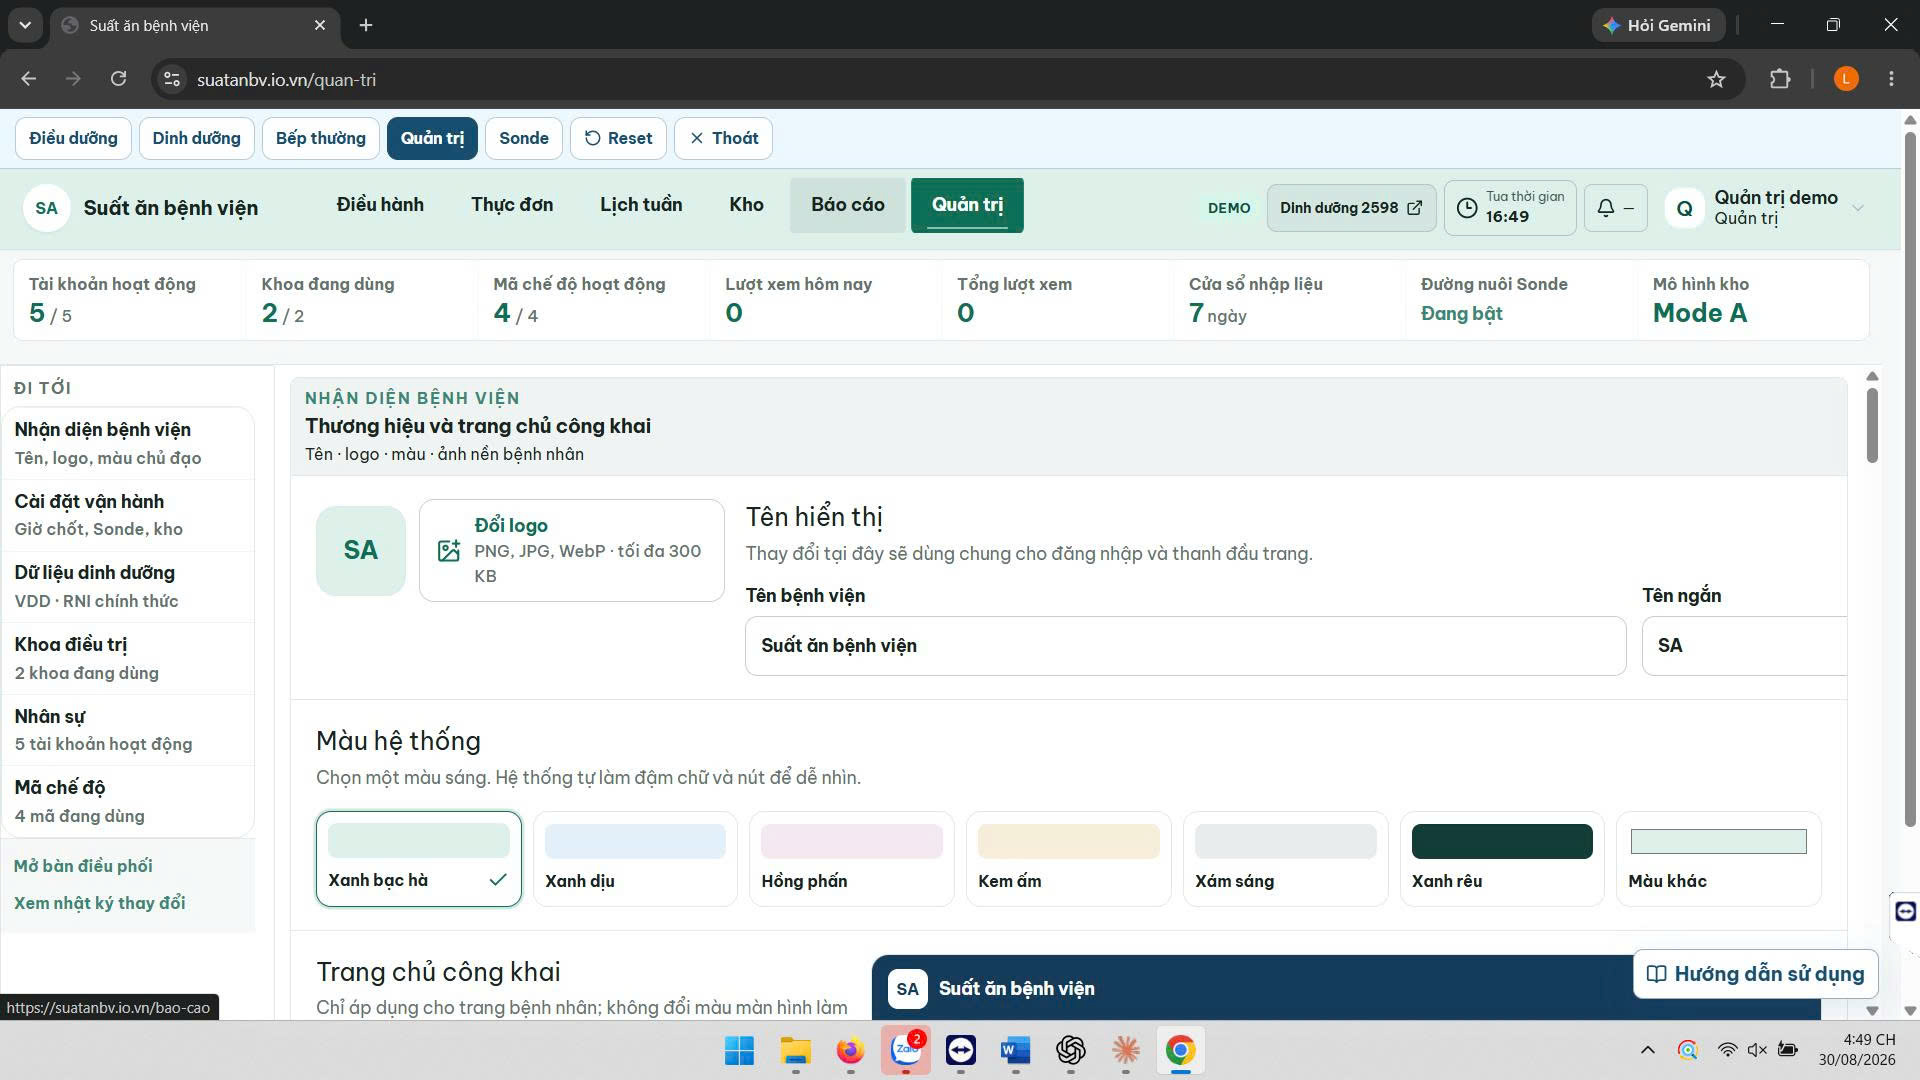
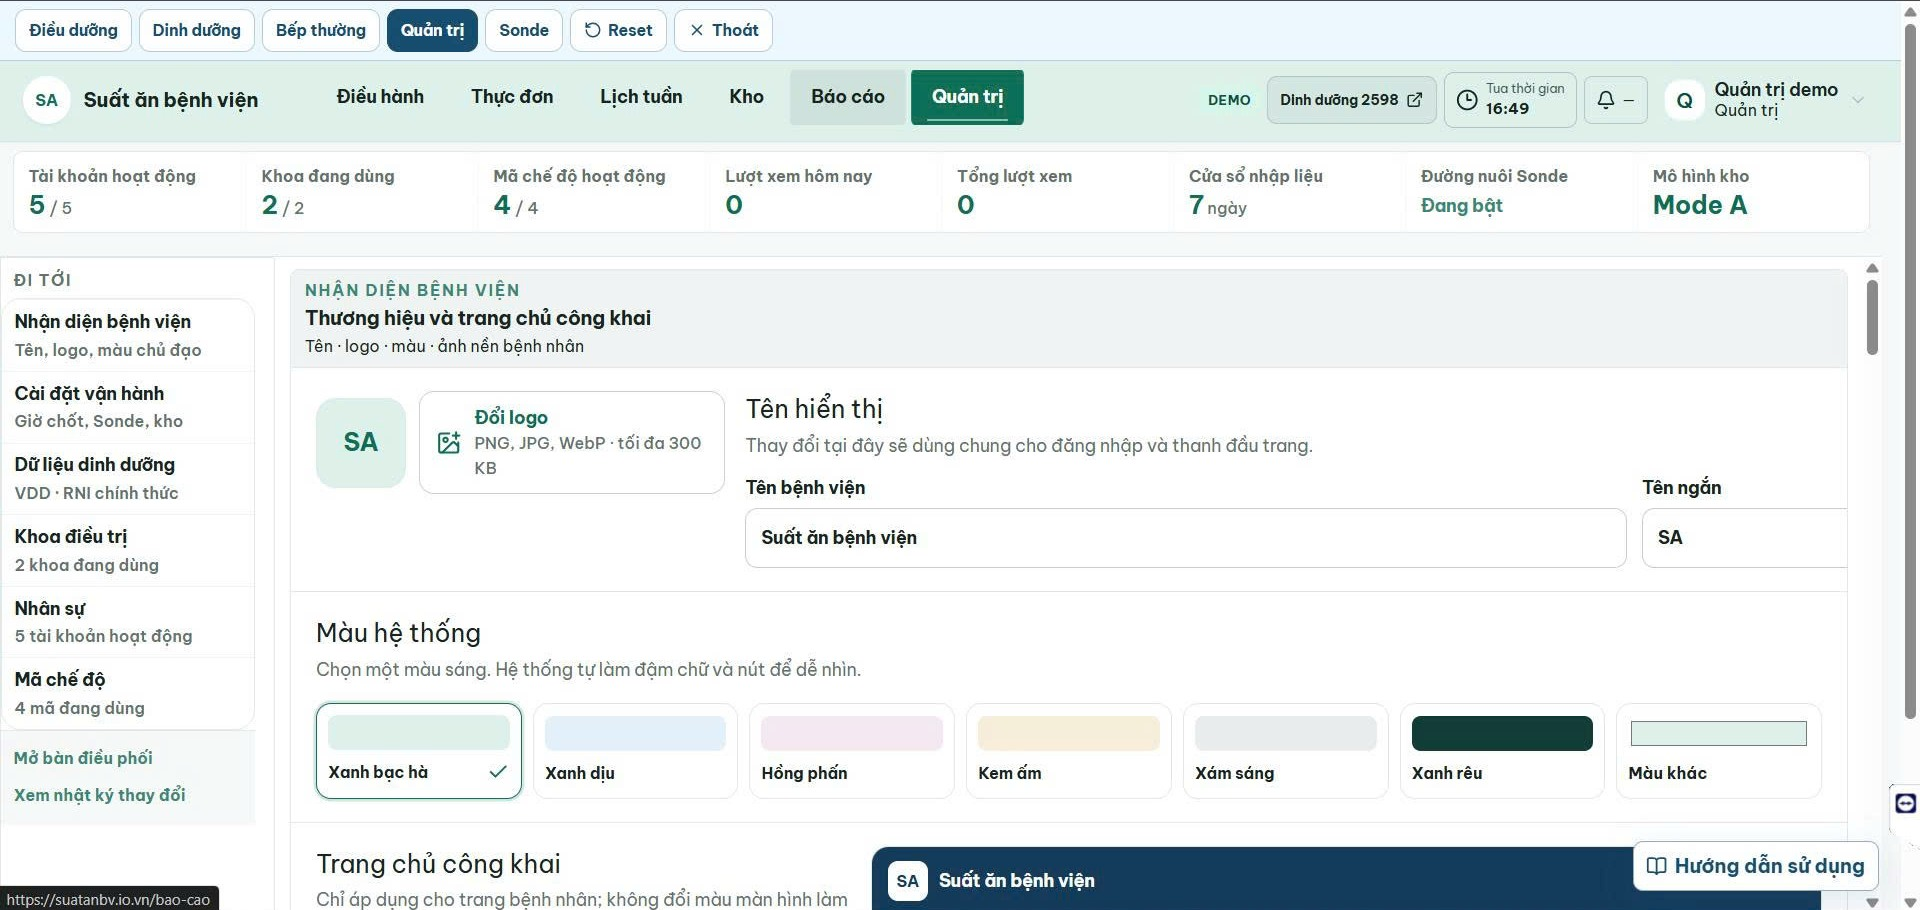
Fix: crop demo adoption screenshot

diff --git a/apps/meal-service/src/app/operations.css b/apps/meal-service/src/app/operations.css
@@ -1239,7 +1239,7 @@ body:has(.nutrition-menu-page) .top-shell,body:has(.nutrition-menu-page) [role="
 .demo-workflow-strip{padding:18px max(20px,calc((100vw - 1180px)/2)) 54px;background:#fff}.demo-workflow-strip h2{position:absolute;width:1px;height:1px;overflow:hidden;clip:rect(0 0 0 0)}.demo-workflow-strip>div{display:grid;grid-template-columns:repeat(5,minmax(0,1fr));gap:1px;overflow:hidden;border:1px solid #dbe8e2;border-radius:8px;background:#dbe8e2}.demo-workflow-strip article{position:relative;display:grid;gap:8px;min-height:154px;padding:18px;background:#fff}.demo-workflow-strip article:not(:last-child)::after{content:"";position:absolute;right:-9px;top:50%;z-index:2;width:16px;height:16px;border-top:1px solid #bcd4cb;border-right:1px solid #bcd4cb;background:#fff;transform:translateY(-50%) rotate(45deg)}.demo-workflow-strip span{color:#0f6e56;font-size:12px;font-weight:800}.demo-workflow-strip svg{width:23px;color:#123c36}.demo-workflow-strip h3{margin:0;color:#123c36;font-size:16px}.demo-workflow-strip p{margin:0;color:#667a73;font-size:12px;line-height:1.45}
 .demo-reference-section{padding:clamp(54px,8vw,86px) max(20px,calc((100vw - 1180px)/2));background:#fff}.demo-section-heading{display:grid;gap:8px;max-width:780px;margin-bottom:26px}.demo-section-heading p{margin:0;color:#0f6e56;font-size:12px;font-weight:800;letter-spacing:.08em;text-transform:uppercase}.demo-section-heading h2{margin:0;color:#123c36;font-size:clamp(28px,3vw,42px);font-weight:700;letter-spacing:0;line-height:1.15}.demo-two-column{display:grid;grid-template-columns:1fr 1fr;gap:16px}.demo-two-column article{padding:24px;border:1px solid #dbe8e2;border-radius:8px;background:#f8fbfa}.demo-two-column h3{margin:0 0 14px;color:#123c36;font-size:20px}.demo-two-column ul,.demo-transparency ul{display:grid;gap:10px;margin:0;padding-left:20px;color:#526960;line-height:1.6}
 .demo-reference-home .demo-role-gallery{padding-top:64px;padding-bottom:64px}.demo-reference-home .demo-role-route{width:max-content;padding:5px 8px;border:1px solid #cbe3d8;border-radius:999px;background:#eef7f3;color:#0f6e56;font-size:11px;font-weight:800}.demo-reference-home .demo-role-gallery-card .demo-entry-direct button{min-height:42px;display:inline-flex;align-items:center;gap:7px;border:0;background:transparent;color:#0f6e56;font-size:13px;font-weight:800;cursor:pointer}
-.demo-adoption{background:#eef7f3}.demo-adoption-layout{display:grid;grid-template-columns:minmax(340px,.76fr) minmax(0,1.24fr);align-items:start;gap:30px}.demo-adoption-copy{display:grid;align-content:start;gap:18px}.demo-adoption-copy .demo-section-heading{margin-bottom:0}.demo-adoption-steps{position:relative;display:grid;gap:10px}.demo-adoption-steps::before{content:"";position:absolute;top:22px;bottom:22px;left:17px;width:1px;background:#9fc5b6}.demo-adoption-steps article{position:relative;display:grid;grid-template-columns:34px minmax(0,1fr);gap:0 14px;padding:15px 16px;border:1px solid #cfe2d8;border-radius:8px;background:#fff}.demo-adoption-steps strong{grid-row:1/3;width:34px;height:34px;display:grid;place-items:center;border-radius:50%;background:#123c36;color:#fff}.demo-adoption-steps h3{margin:2px 0 6px;color:#123c36;font-size:17px}.demo-adoption-steps p{grid-column:2;margin:0;color:#5a7169;font-size:13px;line-height:1.5}.demo-adoption-slider{display:grid;gap:10px;min-width:0}.demo-adoption-gallery{display:flex;gap:0;overflow:hidden;scroll-snap-type:x mandatory;overscroll-behavior-inline:contain}.demo-adoption-gallery figure{flex:0 0 100%;overflow:hidden;margin:0;border:1px solid #cfe2d8;border-radius:8px;background:#fff;box-shadow:0 14px 32px rgb(18 60 54/.07);scroll-snap-align:start}.demo-adoption-gallery img{display:block;width:100%;max-height:520px;height:auto;aspect-ratio:16/9;object-fit:cover;object-position:top center}.demo-adoption-gallery figcaption{display:grid;grid-template-columns:minmax(120px,.3fr) minmax(0,1fr);gap:10px;padding:12px 14px;border-top:1px solid #e1ece7}.demo-adoption-gallery figcaption strong{color:#123c36;font-size:14px}.demo-adoption-gallery figcaption span{color:#5d726a;font-size:12px;line-height:1.45}.demo-adoption-controls{display:flex;align-items:center;justify-content:center;gap:12px}.demo-adoption-controls>button{width:38px;height:38px;display:grid;place-items:center;border:1px solid #b9d2c8;border-radius:50%;background:#fff;color:#123c36;cursor:pointer}.demo-adoption-controls>button svg{width:20px}.demo-adoption-dots{display:flex;align-items:center;gap:7px}.demo-adoption-dots button{width:9px;height:9px;padding:0;border:0;border-radius:50%;background:#9fb8ae;cursor:pointer}.demo-adoption-dots button[aria-current=true]{width:26px;border-radius:999px;background:#123c36}
+.demo-adoption{background:#eef7f3}.demo-adoption-layout{display:grid;grid-template-columns:minmax(340px,.76fr) minmax(0,1.24fr);align-items:start;gap:30px}.demo-adoption-copy{display:grid;align-content:start;gap:18px}.demo-adoption-copy .demo-section-heading{margin-bottom:0}.demo-adoption-steps{position:relative;display:grid;gap:10px}.demo-adoption-steps::before{content:"";position:absolute;top:22px;bottom:22px;left:17px;width:1px;background:#9fc5b6}.demo-adoption-steps article{position:relative;display:grid;grid-template-columns:34px minmax(0,1fr);gap:0 14px;padding:15px 16px;border:1px solid #cfe2d8;border-radius:8px;background:#fff}.demo-adoption-steps strong{grid-row:1/3;width:34px;height:34px;display:grid;place-items:center;border-radius:50%;background:#123c36;color:#fff}.demo-adoption-steps h3{margin:2px 0 6px;color:#123c36;font-size:17px}.demo-adoption-steps p{grid-column:2;margin:0;color:#5a7169;font-size:13px;line-height:1.5}.demo-adoption-slider{display:grid;gap:10px;min-width:0}.demo-adoption-gallery{display:flex;gap:0;overflow:hidden;scroll-snap-type:x mandatory;overscroll-behavior-inline:contain}.demo-adoption-gallery figure{flex:0 0 100%;overflow:hidden;margin:0;border:1px solid #cfe2d8;border-radius:8px;background:#fff;box-shadow:0 14px 32px rgb(18 60 54/.07);scroll-snap-align:start}.demo-adoption-gallery img{display:block;width:100%;max-height:500px;height:auto;aspect-ratio:2.1/1;object-fit:cover;object-position:top center}.demo-adoption-gallery figcaption{display:grid;grid-template-columns:minmax(120px,.3fr) minmax(0,1fr);gap:10px;padding:12px 14px;border-top:1px solid #e1ece7}.demo-adoption-gallery figcaption strong{color:#123c36;font-size:14px}.demo-adoption-gallery figcaption span{color:#5d726a;font-size:12px;line-height:1.45}.demo-adoption-controls{display:flex;align-items:center;justify-content:center;gap:12px}.demo-adoption-controls>button{width:38px;height:38px;display:grid;place-items:center;border:1px solid #b9d2c8;border-radius:50%;background:#fff;color:#123c36;cursor:pointer}.demo-adoption-controls>button svg{width:20px}.demo-adoption-dots{display:flex;align-items:center;gap:7px}.demo-adoption-dots button{width:9px;height:9px;padding:0;border:0;border-radius:50%;background:#9fb8ae;cursor:pointer}.demo-adoption-dots button[aria-current=true]{width:26px;border-radius:999px;background:#123c36}
 .demo-it-section{padding:clamp(56px,8vw,90px) max(20px,calc((100vw - 1180px)/2));background:#123c36;color:#fff}.demo-it-section .demo-section-heading p,.demo-it-section .demo-section-heading h2{color:#fff}.demo-it-grid{display:grid;grid-template-columns:repeat(4,minmax(0,1fr));gap:14px}.demo-it-grid article{display:grid;align-content:start;gap:12px;padding:20px;border:1px solid rgb(255 255 255/.18);border-radius:8px;background:rgb(255 255 255/.08)}.demo-it-grid svg{width:24px;color:#a7d9c8}.demo-it-grid h3{margin:0;color:#fff;font-size:17px}.demo-it-grid p{margin:0;color:#d2e4de;font-size:13px;line-height:1.55}.demo-it-grid a{display:inline-flex;align-items:center;gap:7px;margin-top:4px;color:#fff;font-size:13px;font-weight:800}.demo-it-grid a svg{width:16px;color:#fff}
 .demo-reference-card{display:grid;grid-template-columns:44px minmax(0,1fr) auto;align-items:center;gap:18px;width:min(1180px,calc(100% - 40px));margin:clamp(46px,7vw,72px) auto 0;padding:22px;border:1px solid #cbded6;border-radius:8px;background:#fff}.demo-reference-card>svg{width:30px;color:#0f6e56}.demo-reference-card h2,.demo-transparency h2{margin:0;color:#123c36;font-size:22px}.demo-reference-card p{margin:5px 0 0;color:#5b7169;line-height:1.6}.demo-reference-card a{min-height:42px;display:inline-flex;align-items:center;padding:0 14px;border-radius:8px;background:#123c36;color:#fff;font-weight:800;white-space:nowrap}
 .demo-transparency{width:min(1180px,calc(100% - 40px));margin:18px auto 0;padding:24px;border:1px solid #d8e3ea;border-radius:8px;background:#f1f7fb}.demo-transparency h2{margin-bottom:12px}
